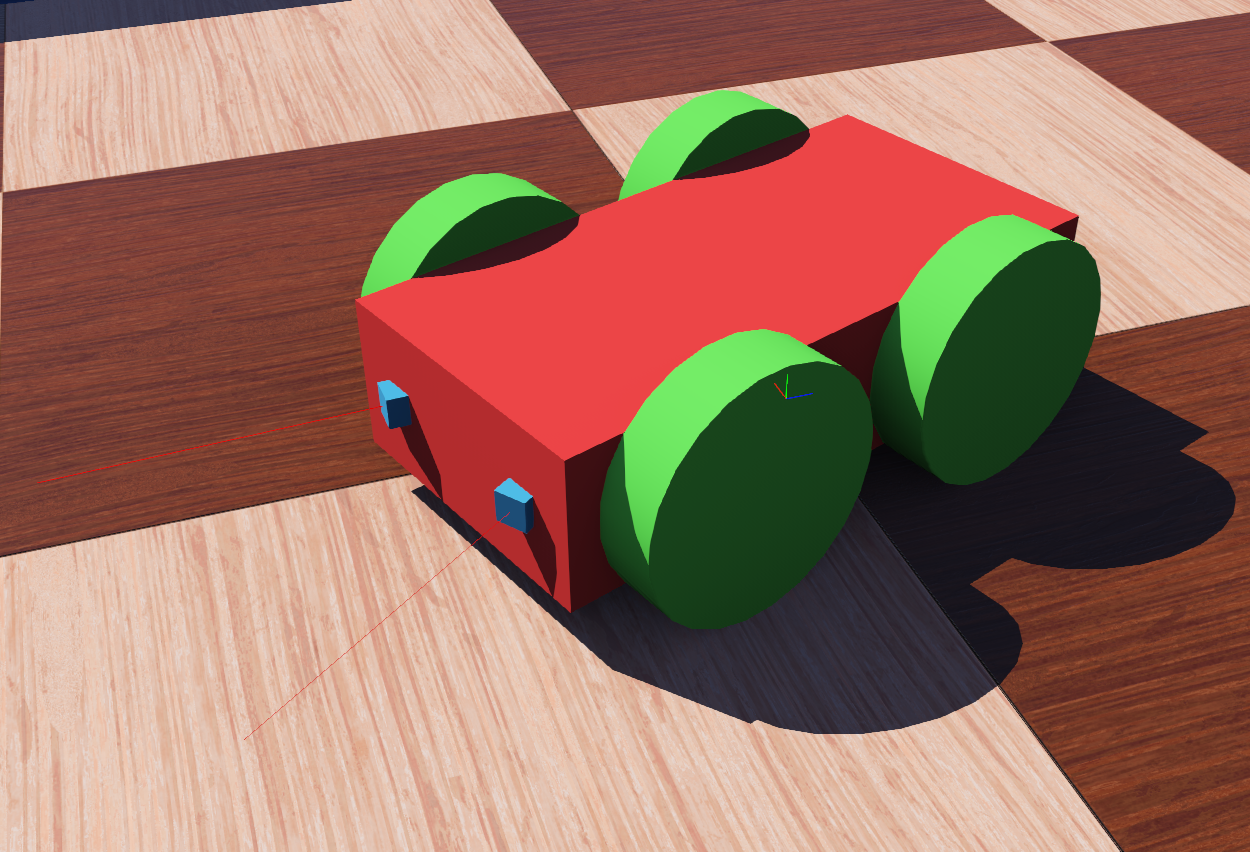
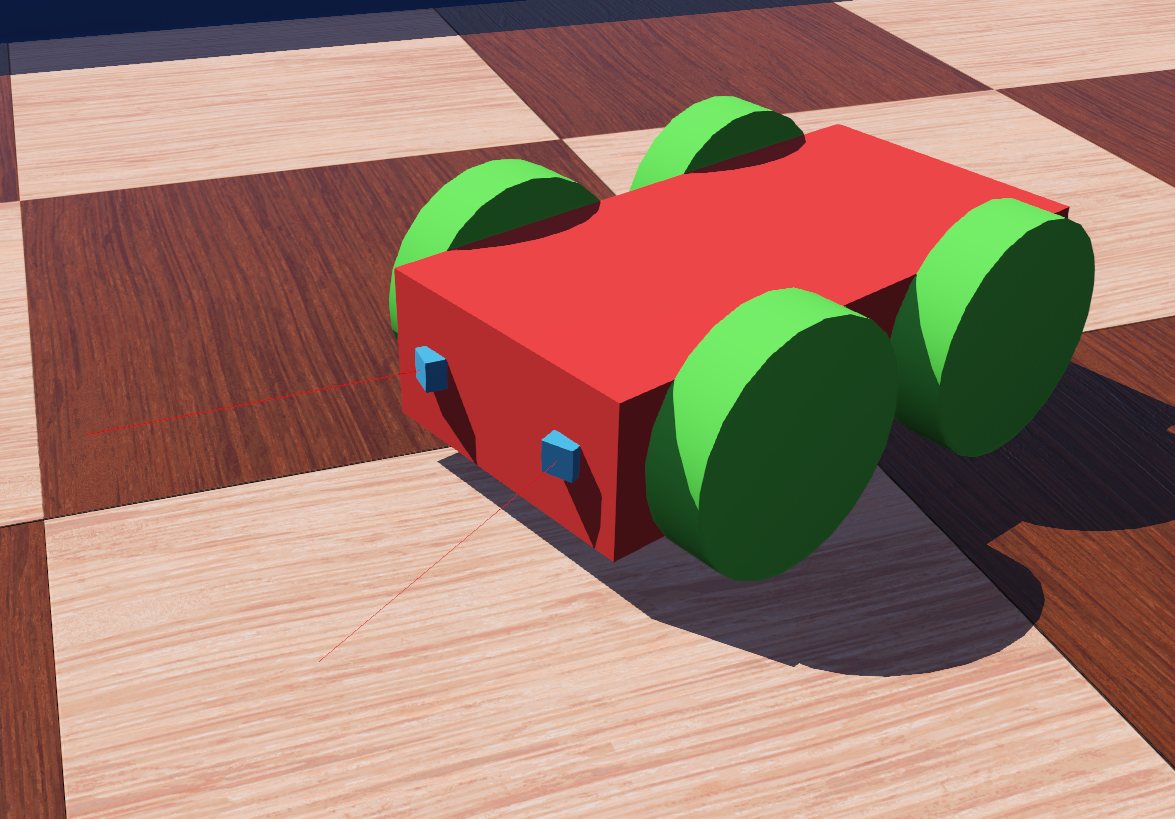
Update documentation text

diff --git a/docs/guide/tutorial-6-4-wheels-robot.md b/docs/guide/tutorial-6-4-wheels-robot.md
@@ -73,7 +73,7 @@ Please refer to [this figure](#high-level-representation-of-the-4-wheeled-robot)
 Add a [Shape](../reference/shape.md) node containing a Box geometry to the [Robot](../reference/robot.md) node.
 Set the color of the [Shape](../reference/shape.md) to red.
 Use the [Shape](../reference/shape.md) to define the `boundingObject` field of the [Robot](../reference/robot.md) node.
-The dimension of the box is `(0.1, 0.05, 0.2)`.
+The dimension of the box is `(0.2, 0.1, 0.05)`.
 Add a [Physics](../reference/physics.md) node to the [Robot](../reference/robot.md).
 The [figure](#high-level-representation-of-the-4-wheeled-robot) represents all the nodes defining the robot.
 So far, only the direct children nodes of the root [Robot](../reference/robot.md) node has been implemented.
@@ -126,10 +126,10 @@ The rotation origin (anchor) and the rotation axis (axis) are defined by the opt
 
 %end
 
-For the first wheel, the [Solid](../reference/solid.md) translation should be defined to `(0.06, 0, 0.05)` in order to define the relative gap between the body and the wheel, and the rotation to `(0 0 1 1.5708)` for the wheel cylinder to be correctly oriented.
-The [HingeJointParameters](../reference/hingejointparameters.md) anchor should also be defined to `(0.06, 0, 0.05)` to define the rotation origin (relatively to the body).
+For the first wheel, the [Solid](../reference/solid.md) translation should be defined to `(0.05, 0.06, 0)` in order to define the relative gap between the body and the wheel, and the rotation to `(1 0 0 1.5708)` for the wheel cylinder to be correctly oriented.
+The [HingeJointParameters](../reference/hingejointparameters.md) anchor should also be defined to `(0.05, 0.06, 0)` to define the rotation origin (relatively to the body).
 Finally, the [HingeJointParameters](../reference/hingejointparameters.md) axis should define the rotation axis.
-In our case it's along the x-axis (so `(1, 0, 0)`).
+In our case it's along the y-axis (so `(0, 1, 0)`).
 
 > **Hands on #3**: Add a [HingeJointParameters](../reference/hingejointparameters.md) node, and enter the field values as described above.
 Some signs obviously have to be updated for other wheels.
@@ -140,9 +140,12 @@ Now, let's implement the cylinder shape of the wheels.
 Don't forget the [Physics](../reference/physics.md) nodes.
 
 For each [HingeJoint](../reference/hingejoint.md), there are three fields in which nodes need to be added.
-- **jointParameters**: Add a [HingeJointParameters](../reference/hingejointparameters.md) and configure the anchor (0.06 0 -0.05) and axis fields (1 0 0). These values have to be modified according to the location of the wheel.
-- **device**: Add a [RotationalMotor](../reference/rotationalmotor.md) in order to be able to actuate the wheels. Change their `name` fields from `wheel1` to `wheel4` according to [this figure](#top-view-of-the-4-wheeled-robot-the-grid-behind-the-robot-has-a-dimension-of-0-2-x-0-3-meters-the-text-labels-correspond-to-the-name-of-the-device). These labels will be used to reference the wheels from the controller.
-- **endPoint**: Add a [Solid](../reference/solid.md) node, then a [Shape](../reference/shape.md) node in the `children` field of the [Solid](../reference/solid.md), and finally, add a [Cylinder](../reference/cylinder.md) in the `geometry` field of the [Shape](../reference/shape.md) node. The [Cylinder](../reference/cylinder.md) should have a `radius` of `0.04` and a `height` of `0.02`.
+- **jointParameters**: Add a [HingeJointParameters](../reference/hingejointparameters.md) and configure the anchor (0.05 -0.06 0) and axis (0 1 0) fields.
+  These values have to be modified according to the location of the wheel.
+- **device**: Add a [RotationalMotor](../reference/rotationalmotor.md) in order to be able to actuate the wheels. Change their `name` fields from `wheel1` to `wheel4` according to [this figure](#top-view-of-the-4-wheeled-robot-the-grid-behind-the-robot-has-a-dimension-of-0-2-x-0-3-meters-the-text-labels-correspond-to-the-name-of-the-device).
+  These labels will be used to reference the wheels from the controller.
+- **endPoint**: Add a [Solid](../reference/solid.md) node, then a [Shape](../reference/shape.md) node in the `children` field of the [Solid](../reference/solid.md), and finally, add a [Cylinder](../reference/cylinder.md) in the `geometry` field of the [Shape](../reference/shape.md) node.
+  The [Cylinder](../reference/cylinder.md) should have a `radius` of `0.04` and a `height` of `0.02`.
 Set the color of the wheels to green.
 
 

diff --git a/docs/guide/tutorial-1-your-first-simulation-in-webots.md b/docs/guide/tutorial-1-your-first-simulation-in-webots.md
@@ -74,14 +74,14 @@ In the open dialog box, choose `PROTO nodes (Webots Projects) / objects / factor
 A big box should appear in the middle of the arena.
 Double-click on it in the scene tree to open its fields.
 1. Change its `size` to `0.1 0.1 0.1` instead of `0.6 0.6 0.6`.
-2. Change its `translation` to `0 0.05 0` instead of `0 0.3 0`.
-Alternatively, you may use the green arrow that appears in the 3D view to adjust its `translation.y` field.
+2. Change its `translation` to `0 0 0.05` instead of `0 0 0.3`.
+Alternatively, you may use the blue arrow that appears in the 3D view to adjust its `translation.z` field.
 3. Now shift-click and drag the box in the 3D view and move it in some corner of the arena.
 4. Select the box and press <kbd>ctrl</kbd>-<kbd>C</kbd>, <kbd>ctrl</kbd>-<kbd>V</kbd> (Windows, Linux) or <kbd>⌘ command</kbd>-<kbd>C</kbd>, <kbd>⌘ command</kbd>-<kbd>V</kbd> (macOS) to copy and paste it.
 Shift-click and drag the new box to move it at some different location.
 Create a third box this way.
 5. Move the boxes, so that no box is at the center of the arena.
-You may also use the green rotation arrows to rotate the boxes along the vertical axis.
+You may also use the blue rotation arrows to rotate the boxes along the vertical axis.
 This can be done also by shift-click and drag with the right mouse button.
 Alternatively, you can change the angle of the `rotation` field of the `WoodenBox` nodes in the scene tree.
 6. Once you are satisfied with the result, save the world using the save button.

diff --git a/docs/guide/tutorial-5-compound-solid-and-physics-attributes.md b/docs/guide/tutorial-5-compound-solid-and-physics-attributes.md
@@ -69,7 +69,7 @@ The center of mass can be modified using the `centerOfMass` field of the [Physic
 The center of mass is specified relatively to the origin of the [Solid](../reference/solid.md).
 
 > **Hands on #4**: Let's say that one of the weights is heavier than the other one.
-Move the center of mass of the dumbbell of `0.01` [m] along the y-axis.
+Move the center of mass of the dumbbell of `0.01` [m] along the z-axis.
 
 Note that when the solid is selected, the center of mass is represented in the 3D view by a coordinate system which is darker than the coordinate system representing the solid center.
 
@@ -82,8 +82,8 @@ The fourth component defines the rotation angle about the axis (in [rad]).
 
 The rotation occurs in the sense prescribed by the right-hand rule.
 
-> **Hands on #5**: Modify the rotation of the [Solid](../reference/solid.md) node of the dumbbell in order to move the handle's axis (y-axis) parallel to the ground.
-A unit axis (`1, 0, 0`) and an angle of &pi;/2 (~ `1.5708`) is a possible solution.
+> **Hands on #5**: Modify the rotation of the [Solid](../reference/solid.md) node of the dumbbell in order to move the handle's axis (z-axis) parallel to the ground.
+A unit axis (`0, 1, 0`) and an angle of &pi;/2 (~ `1.5708`) is a possible solution.
 
 ### How to Choose Bounding Objects?
 

diff --git a/docs/guide/tutorial-2-modification-of-the-environment.md b/docs/guide/tutorial-2-modification-of-the-environment.md
@@ -85,7 +85,7 @@ Select the `appearance` field of the [Shape](../reference/shape.md) node and use
 2. Expand the `PBRAppearance` node and change its `metalness` field to 0 and its `roughness` field to 1.
 3. Add another [Sphere](../reference/sphere.md) node to the `boundingObject` field of the [Solid](../reference/solid.md).
 4. Finally add a [Physics](../reference/physics.md) node to the `physics` field of the [Solid](../reference/solid.md).
-5. By modifying the `translation` field of the [Solid](../reference/solid.md) node, place the ball in front of the robot (at `{0, 0.2, -0.2}` for example).
+5. By modifying the `translation` field of the [Solid](../reference/solid.md) node, place the ball in front of the robot (at `{0.2, 0, 0.2}` for example).
 6. Save the simulation.
 7. The result is depicted in [this figure](#your-first-rigid-body-in-webots).
 
